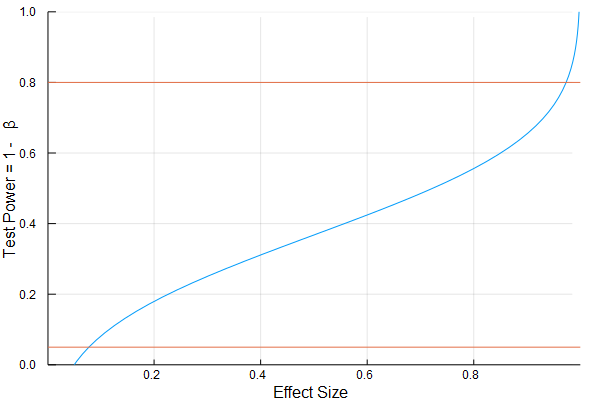
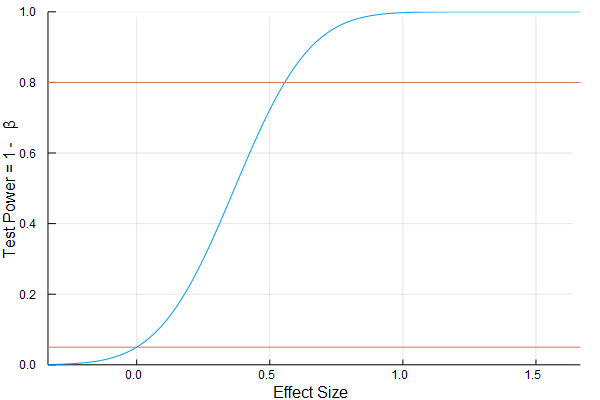
README more stuff added

diff --git a/README.md b/README.md
@@ -268,7 +268,7 @@ julia> power = [powerNormTest(d=x,n=20,alternative="greater") for x in d]
  1.0        
  1.0        
  1.0        
-julia> plot(power,d,ylim=[0.,1.],legend=false,ylabel="Test Power = 1 - \\beta", xlabel = "Effect Size")
+julia> plot(d,power,ylim=[0.,1.],legend=false,ylabel="Test Power = 1 - \\beta", xlabel = "Effect Size")
 
 julia> hline!([0.05,0.80])
 ```
